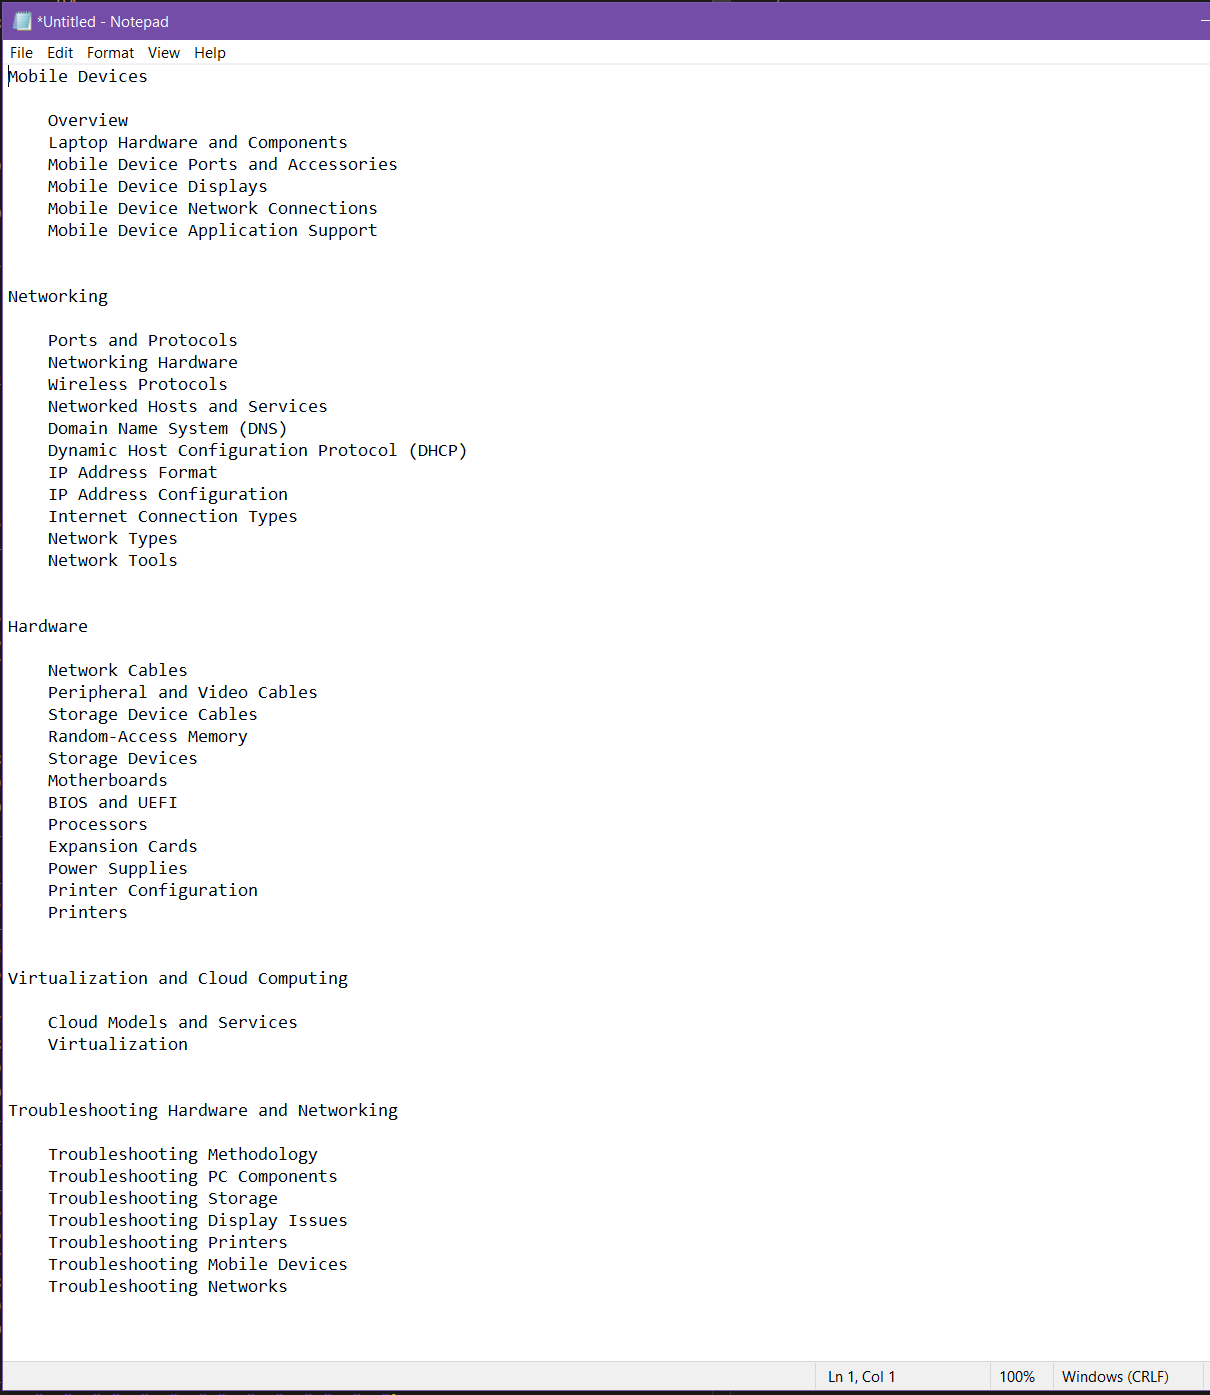
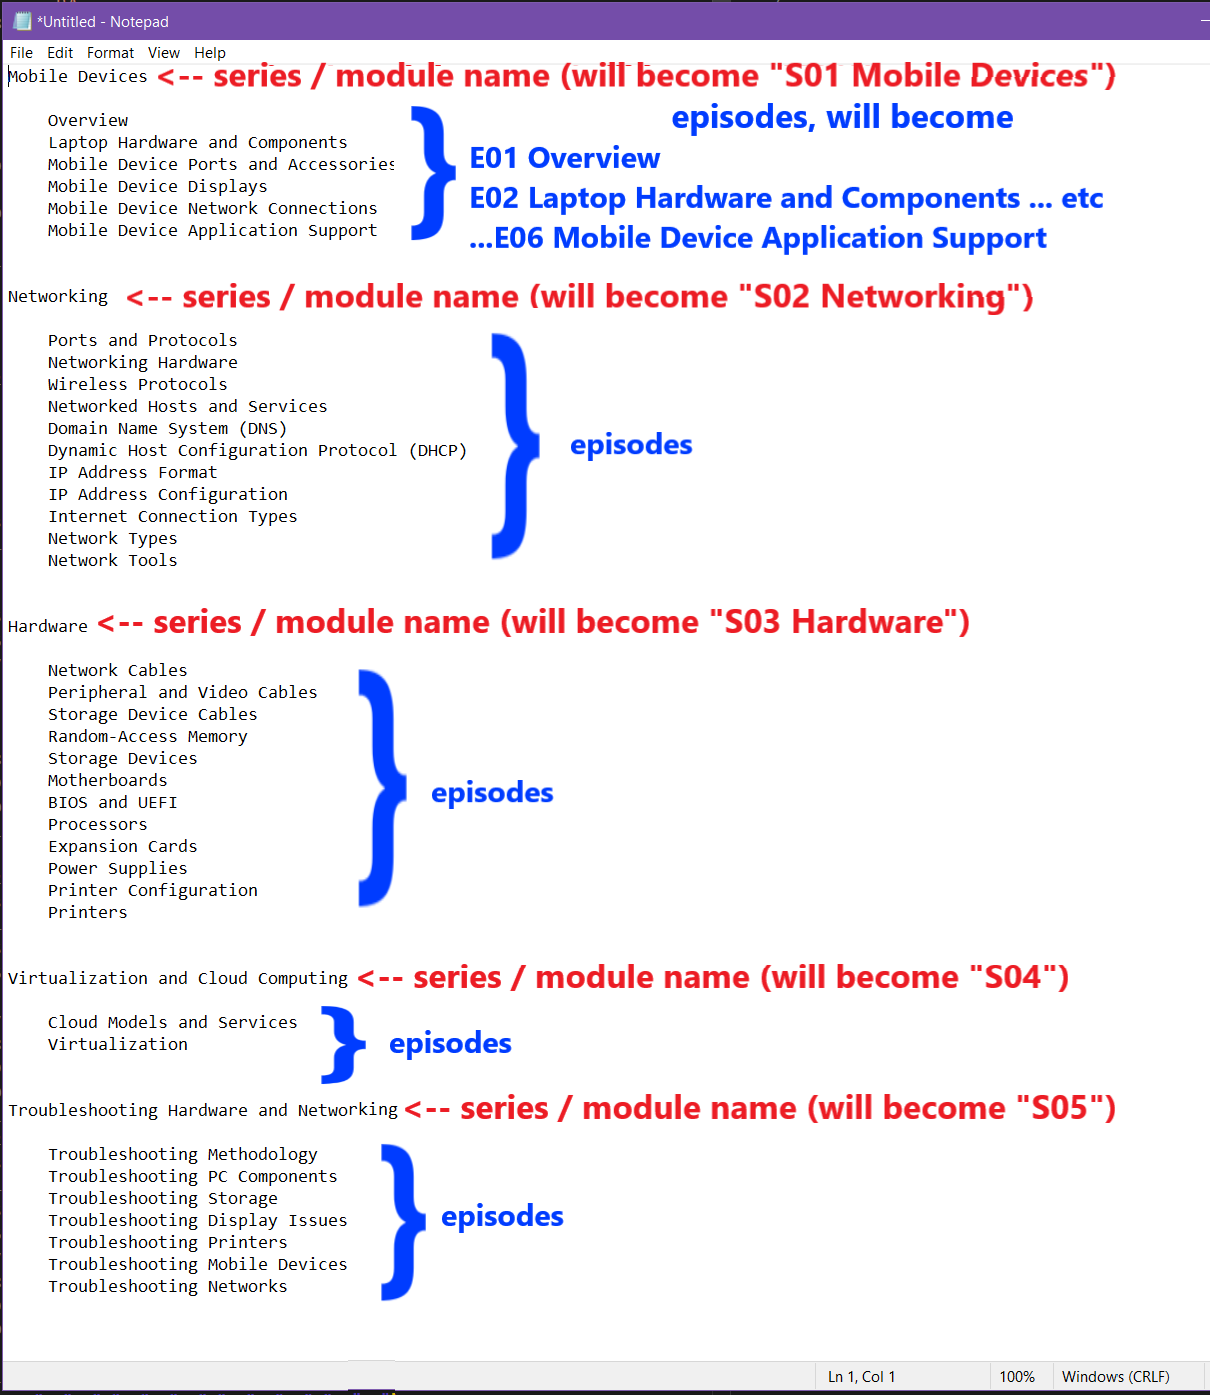
First draft README.md, screenshots added to misc and neatened commentary in script.

diff --git a/rename_packt_videos.py b/rename_packt_videos.py
@@ -1,31 +1,11 @@
-""" RENAME PACKT VIDEO FILES in format video1_1.mp4"""
+""" RENAME PACKT VIDEO FILES in format video1_1.mp4."""
 
-"""Limitations: 
-* 'Series' refers to a module in a full video course. S01 and E01 are used to maintain compatibility with whisper_wrapper.py transcription implementation.
-* This Script only works for this EXACT format of file names
-* No error handling etc.
-* TOC:
-* You can run this script on a full set of video files in a single course. You can also run it on an initial slice of the video files: but if you want to run it on a batch of video files which aren't at the START of the course (i.e. you want to run it on series/module 4 and 5, not 1-2-3, then you will have to modify the TOC.txt you supply to remove the earlier series/episodes. This is because the matching of file to new filename runs on a 1:1 basis. If the TOC
-* is longer than the number of files, then the script will cut the TOC to match the number of files. (no problems here)
-* If the TOC is shorter than the number of files, the script will throw an IndexError.
-* If you try to rename just later files (so Module/Series 4 and 5 but not 1-2-3, without modifying the TOC, then the script will rename your files incorrectly. There is no intelligent check to make sure the correct name is being given to the correct file: it is simply processed in strict alphabetical order.)
-* It is recommended to create a separate 'backup' folder and copy your originally named video files into it (packt always supply a zip, so they will also be in there if the zip isn't deleted after extraction) just incase there is an error with the renaming process. When the rename is complete, check the video filesizes in alphabetical order between the old and new folders to ensure the rename has happened in the correct order."""
-
-"""Naturally, for your own use, just fill in the strings for the target TOC path and video target path directly. They are imported from config for confidentiality for sharing on GitHub."""
-
-""" SETUP STEPS REQUIRED BEFORE RUNNING THIS SCRIPT:
-* Create a TOC 'Table of Contents' txt file by copying the Series & Episode names from overview.html that Packt supplies in the 'Package' folder. See README.md. # Delete only the top line "Table of Contents" from the .txt file # SCREENSHOT
-* Update path_TOC
-* Update series dictionary (just type in the series or module names)
-* Update target folder.
-* Looking at TOC, ensure that there aren't any IDENTICAL Episode and Series names: this will mess the entire thing up.
-
-"""
 import os
 import re
-from config import path_TOC, path_folder # don't need these if supplying path string directly in variables below
 
-""" ONLY MANUAL COMPLETION SECTION: Update Series Name only."""
+###################### MANUAL COMPLETION SECTION #############################
+
+""" Update Series names only """
 # Ensure the spelling and capitalisation exactly matches the Table of Contents
 series = {
     # Dictionary: standard Packt video filename, Series# and Series Name."""
@@ -36,13 +16,19 @@ series = {
     "video5": ["S05", "Troubleshooting Hardware and Networking"],
     }
 
-"Dictionary of Number Replacements"
-# Required to correctly order files with single digit numbers (otherwise 10 ends up before 2, etc)
-replacements = {"1": "01", "2": "02", "3": "03", "4": "04", "5": "05", "6": "06", "7": "07", "8": "08", "9": "09"}
+""" Specify target folder containing files to be renamed"""
+path_folder = "batch/" # path relative to script location
+
+""" Specify file extension to target"""
+ext = ".mp4" # NB: ALL the files in this folder with this file extension will be enumerated and processed!
+
+""" Specify the path to the TOC.txt (Table of Contents) file. """
+path_TOC = "batch/TOC.txt"
 
 
-""" Process the Table of Contents .txt file into a list of strings, with all extra characters and newlines removed"""
-path_TOC = r"D:\py_code_all\whisper_test\rename vids\Table of Contents_stripped.txt"
+##############################################################################
+
+""" Processes the Table of Contents .txt file into a list of strings, with all extra characters and newlines removed"""
 with open(path_TOC, "r") as file:
     TOC = file.read()
 TOCsplit = TOC.split("\n") # returns a list of strings, split at the newlines
@@ -55,7 +41,8 @@ TOCsplitstripped = [item for item in TOCsplitstripped if item != ''] # remove em
 print(f"{TOCsplitstripped}\n")
 # List of strings containing both the Series names and the Episode names mixed.
 
-""" Split the list into two lists: one with only the series names, and one with only the episode names"""
+
+""" Splits the list into two lists: one with only the series names, and one with only the episode names"""
 TOCseriesonly = [item for item in TOCsplitstripped if any(item == s[1] for s in series.values())] # add only the series names, excluding the episode names
 display_TOCseriesonly = "\n".join(TOCseriesonly)
 print(f"\nThe series names are:\n{display_TOCseriesonly}")
@@ -64,21 +51,15 @@ display_TOCepisodesonly = "\n".join(TOCepisodesonly)
 print(f"\nThe episode names are:\n{display_TOCepisodesonly}")
 
 
-"""Target folder"""
-path_folder = r"C:\path\to\your\folder\containingvids" # absolute path
-# OR
-path_folder = "batch/" # path relative to script location
-
-""".mp4 files"""
-
-ext = ".mp4" # NB: ALL the files in this folder with this file extension will be enumerated and processed!
-
+""" Reads the current video filenames into a sorted list """
 # Create list of current filenames of specified format in alphabetical order
 original_filenames = [f for f in os.listdir(path_folder) if f.endswith(ext)]
 sorted_filenames = sorted(original_filenames)
 display_sorted_filenames = "\n".join(sorted_filenames)
-print(f"\nIf episode numbers are more than single digit, the filenames will be displayed hire in an incorrectorder: {display_sorted_filenames}")
+print(f"\nIf episode numbers are more than single digit, the filenames will be displayed hire in an incorrect order: {display_sorted_filenames}")
 
+
+""" Renames the files to ensure that the episode number is surrounded by underscores on both sides """
 # Regex pattern to capture the digit before the file extension. This is in order to surround the full digit(s) with underscores either side (otherwise _12 will later be replaced by `01` and `02`)
 pattern = re.compile(r'(\d)(\{})$'.format(ext))
 
@@ -87,6 +68,7 @@ for videofile in sorted_filenames:
     # Replace match with the same digit as captured followed by an underscore
     new_name = pattern.sub(r'\g<1>_\g<2>', videofile)
     print(f"Filename after additional _: {new_name}")
+    # Rename the files on disc
     os.rename(os.path.join(path_folder, videofile), os.path.join(path_folder, new_name))
 
 # sorted_filenames needs recompiling as the files have been renamed
@@ -95,9 +77,16 @@ sorted_filenames = sorted(original_filenames)
 display_sorted_filenames = "\n".join(sorted_filenames)
 print(f"\n Filenames should now have an episode number bound by underscores on both sides: {display_sorted_filenames}")
 
-# Replace 
+
+"Dictionary for Number Replacements"
+# Required to correctly order files with single digit numbers (otherwise 10 ends up before 2, etc)
+replacements = {"1": "01", "2": "02", "3": "03", "4": "04", "5": "05", "6": "06", "7": "07", "8": "08", "9": "09"}
+
+
+""" For the new filename, replace: 
 # a) video1 with S01 {series name} 
-# b) the single digit episode numbers with a two digit representation (e.g. 1 with 01) so that the files are ordered correctly
+# b) the single digit episode numbers with a two digit representation (e.g. 1 with 01) so that the files are ordered correctly """
+
 for file in sorted_filenames:
     print(f"Filename before: {file}")
     new_name = file
@@ -108,15 +97,18 @@ for file in sorted_filenames:
         if f"_{old_num}_" in new_name:
             new_name = new_name.replace(f"_{old_num}_", f"_{new_num}_")
     print(f"Filename after: {new_name}")
+    # Rename the files on disc
     os.rename(os.path.join(path_folder, file), os.path.join(path_folder, new_name))
 
-# Sorted_filenames needs recompiling as the files have been renamed
+# sorted_filenames needs recompiling as the files have been renamed
 original_filenames = [f for f in os.listdir(path_folder) if f.endswith(ext)]
 sorted_filenames = sorted(original_filenames)
 display_sorted_filenames = "\n".join(sorted_filenames)
 print(f"\nThe filenames should now be in a strictly correct numerical order, (also with the Series name inserted). If they are not, then the files will end up with incorrect names: {display_sorted_filenames}")
 
-# Check if the number of files and the number of TOC entries match (i.e if ALL the video files for the full series are present). If not, cut the TOC length to match the files, to prevent an IndexError
+
+""" Checks if the number of files and the number of TOC entries match (i.e if ALL the video files for the full series are present). If not, cut the TOC length to match the files, to prevent an IndexError. See notes in README.md for full warning about TOC.txt entries which do not match the number of files."""
+
 num_files = len(sorted_filenames)
 print(f"Number of files: {num_files}")
 num_episodes = len(TOCepisodesonly)
@@ -127,12 +119,13 @@ if int(num_files) != int(num_episodes):
 else: 
     TOCepisodestouse = TOCepisodesonly
 
+""" Renames the files to include the episode name, writing to disc. """
 for index, episode_name in enumerate(TOCepisodestouse):
     print(f"Initial filename: {sorted_filenames[index]}")
-    # want to replace the _digit_ in the filename with " E{digit} {episode_name}" (file extension should remain)
+    # Replace the _digit_ in the filename with " E{digit} {episode_name}" (file extension remains)
     pattern = re.compile(r'_(\d+)_')
     episode_title = TOCepisodestouse[index]
     new_name = pattern.sub(r' E\g<1> {}'.format(episode_title), sorted_filenames[index])
     print(f"Final filename: {new_name}")
+    # Rename the files on disc
     os.rename(os.path.join(path_folder, sorted_filenames[index]), os.path.join(path_folder, new_name))
-    

diff --git a/README.md b/README.md
@@ -1,37 +1,80 @@
-# Intro
+# Intro rename_packt_vids
 This is a simple script, written in 'Novice Python', to perform the fairly niche task of renaming Packt video course files according to the module (series) and episode title. 
 
-Packt video course files are named formulaically: `video1_2.mp4` is (Series / Module 1, Episode 2). This script will rename files `S01 Mobile Devices - E02 Laptop Hardware and Components.mp4`. This use of `Sxx` and `Exx` is designed to feed into [whisper_wrapper](www.github.com/gorbash1370/whisper_wrapper) which will automatically detect `S01` and `E02` to populate the header fields in the transcript.
+Packt video course files are named formulaically: `video1_2.mp4` is (Series / Module 1, Episode 2). This script will rename files `S01 Mobile Devices - E02 Laptop Hardware and Components.mp4`. This use of `Sxx` and `Exx` is designed to feed into [whisper_wrapper](www.github.com/gorbash1370/whisper_wrapper) which will automatically detect `S01` and `E02` to populate the header fields in the transcript.  
+[![Series and Episodes](https://github.com/gorbash1370/rename_packt_vids/misc/TOC_txt_small_annot.png)](https://github.com/gorbash1370/rename_packt_vids/misc/TOC_txt_large_annot.png)
+
+[![Before and After](https://github.com/gorbash1370/rename_packt_vids/misc/before_after_smaller.png)](https://github.com/gorbash1370/rename_packt_vids/misc/before_after_large.png)
 
 
 # Program Structure
-Single file `rename_packt_videos.py`: this is all you need if you complete he user variables `path_TOC` and `path_folder` as strings directly within the file. 
-![variable_strings](https://github.com/gorbash1370/rename_packt_vids/misc/paths_string_options)
-Alternatively you can use a `config.py` file to import these variables.
-![](https://github.com/gorbash1370/rename_packt_vids/misc/imports_optional.PNG)
-No dependencies.
+* Single file `rename_packt_videos.py`.  
+
+* No dependencies.
 
 # Program Operation (high level)
+* Reads the list of series and episodes in the TOC.txt, removes the extra lines and spacing to produce a clean list of the series and episode names `TOCsplitstripped`.
+* References the `series` dictionary (user populated) and creates a list just of the series names `TOCseriesonly`.
+* Creates a list of everything else in the TOC.txt (i.e. the episode names) to create a list of episode names `TOCepisodesonly`.
+* Reads the video file names into a list (if the episode number in a series goes over 9, the order of the names will be incorrect at this point, which will be corrected later).
+* Script surrounds the digit in the video file name with a trailing _ to isolate the complete number.
+* Script adds a leading 0 to single digit numbers to ensure the alphanumeric order is correct.
+* Script replaces "video1" with `S01 series_name`,"video2" with `S02 series_name`, etc.
+* Script renames the video files on disc with these partial names, and reorders the list representation of their names (now strictly alphanumeric). The order is now a correct match for the TOC.txt entries.
+* After checking that there are at least enough TOC.txt episode names for all the files, the script writes the correct episode name to the video file name on disc.
+
 
 # Notes
-The word 'series' has been used throughout to maintain compatiblity with the [whisper_wrapper](www.github.com/gorbash1370/whisper_wrapper), however these could probably also be thought of as modules into which the course is divided. 
+* Script only works for this EXACT format of file names: `video1_1.mp4`, `video1_2.mp4`, `video1_3.mp4` etc, where `1` is the series number and the final `1`,`2`,`3` etc are the episode number. All the Packt downloaded videos I've seen follow this format.
+* The word 'series' has been used throughout to maintain compatiblity with the [whisper_wrapper](www.github.com/gorbash1370/whisper_wrapper), however these can be thought of as 'modules' into which the course is divided. 
+* There is no error handling. 
+* Recommendation: copy the originally-named video files into a separate 'backup' folder (Packt supply their video files in zip, so there will always be a backup if the zip is kept after extraction) just incase there is an error with the renaming process. 
+* Recommendation: When the rename is complete, check the filesizes of the renamed videos, in sorted order, against the ordered filesizes in 'backup' folder. Exact matches indicate files have been renamed correctly.
+    - Alternatively, comment out the lines `os.rename(os.path.join(path_folder, file), os.path.join(path_folder, new_name))`, run the script and check the print statements to verify that the new names are correct. Then, uncomment the `os.rename` lines and run the script again to rename the files.
+* There are a lot of terminal print statements, in order to verify at every stage that the correct renaming is taking place. They can always be commented out once you're happy with how the script works.
 
 
 # User setup
+1) Create a `TOC.txt` (Table of Contents) file: open `overview.html` Packt supplies, copy the module/series and filenames, paste into a text file.  
+[![Overview.html to TOC.txt](https://github.com/gorbash1370/rename_packt_vids/misc/overview_html_to_TOC_text_small.png)](https://github.com/gorbash1370/rename_packt_vids/misc/overview_html_to_TOC_text_large.png)  
+2) Check that there aren't any IDENTICAL series and episode names in the TOC.txt. If there are, the script will get confused and the files won't map correctly. If this happens, rename the episode (i.e. just put a 1 at the end of it. So, if there's a series called "Networking" and an episode (anywhere in the course) also called "Networking", you'd rename the episode to "Networking1" or "Networking_" or similar).  
+**_You do not need to do ANYTHING to the formatting. Don't reorder any lines, don't move the series names around, don't take the series names out. The script will do everything to process the names._**  
+[![overview_to_TOC.txt](https://github.com/gorbash1370/rename_packt_vids/misc/overview_html_to_TOC_text_small.png)](https://github.com/gorbash1370/rename_packt_vids/misc/overview_html_to_TOC_text_large.png)  
+
+It should look like this:  
+[![TOC.txt](https://github.com/gorbash1370/rename_packt_vids/misc/TOC_txt_small.PNG)](https://github.com/gorbash1370/rename_packt_vids/misc/TOC_txt_large_annot.PNG)
+
+3) Populate `path_TOC` with the path to the `TOC.txt` file you created via copy/pasting the headings from the `overview.html` supplied in the Packt course .zip folder.  
+![variable_strings](https://github.com/gorbash1370/rename_packt_vids/misc/paths_string_options)
+
+4) Update the series dictionary with the series / module names only (the final string).
+![Series Dictionary](https://github.com/gorbash1370/rename_packt_vids/misc/series_dictionary.png)
+
+5) Populate `path_folder` with the path to the folder containing the video files you want to rename.    
+6) Specify the `ext` variable with the file extension of the video files you want to rename (i.e. `.mp4`).  
+
+And it's good to go!
 
 
-# Limitations
+# Notes about the TOC.txt file
+[![overview.html Annotated](https://github.com/gorbash1370/rename_packt_vids/misc/series_episodes_annot_small.PNG)](https://github.com/gorbash1370/rename_packt_vids/misc/series_episodes_annot_large.PNG)  
 
+[![TOC.txt Annotated](https://github.com/gorbash1370/rename_packt_vids/misc/TOC_txt_small_annot.png)](https://github.com/gorbash1370/rename_packt_vids/misc/TOC_txt_large_annot.PNG)   
+
+It is important to understand that the transfer of new filename > video file is only partially intelligent. The script DOES pick out the series names and use these correctly for the `Sxx` part of the filename. And it does enforce strict alphanumeric ordering of the video file processing order (by adding a leading 0 before single digit numbers). 
+
+But, episodes just map in the order they appear in TOC.txt onto the strictly ascending alphanumeric order of the video files, 1:1. Therefore:
+- The simplest way to use this script is on a full course of videos: that way, the TOC episode list will exactly match the number of video files. 
+- If you supply a partial course, _starting at the beginning_, the script will handle this situation. This will mean the list of episodes extracted from the TOC is longer than the number of files: the script will just trim the number of episode entries to match the number of the videos.
+- However, if your batch of video files are NOT from the start of the course (i.e. you want to run renaming on episodes in series/module 4 and 5, but not on series 1, series 2, series 3), then you will have to remove the earlier series/episodes from TOC.txt.
+- * If the number of episodes from TOC.txt is less than the number of files, the script will throw an IndexError.
 
 # gorbash1370 Disclaimer
-This is an amateur project built mainly for coding practice, therefore...
-* Commentary may appear excessive (learning 'notes')
-* Some code is expanded (rather than shortened & simplified) for learning clarity.
-* I'm not a professional or trained Dev, so please always inspect code before running. Use at your own risk!
+This is an amateur project built mainly for coding practice, therefore please always inspect code before running. Use at your own risk!
 
 
 # Licence
-[Licence]()
+[Licence](https://github.com/gorbash1370/rename_packt_vids/LICENSE)
 
 
 # If you enjoy this project...
